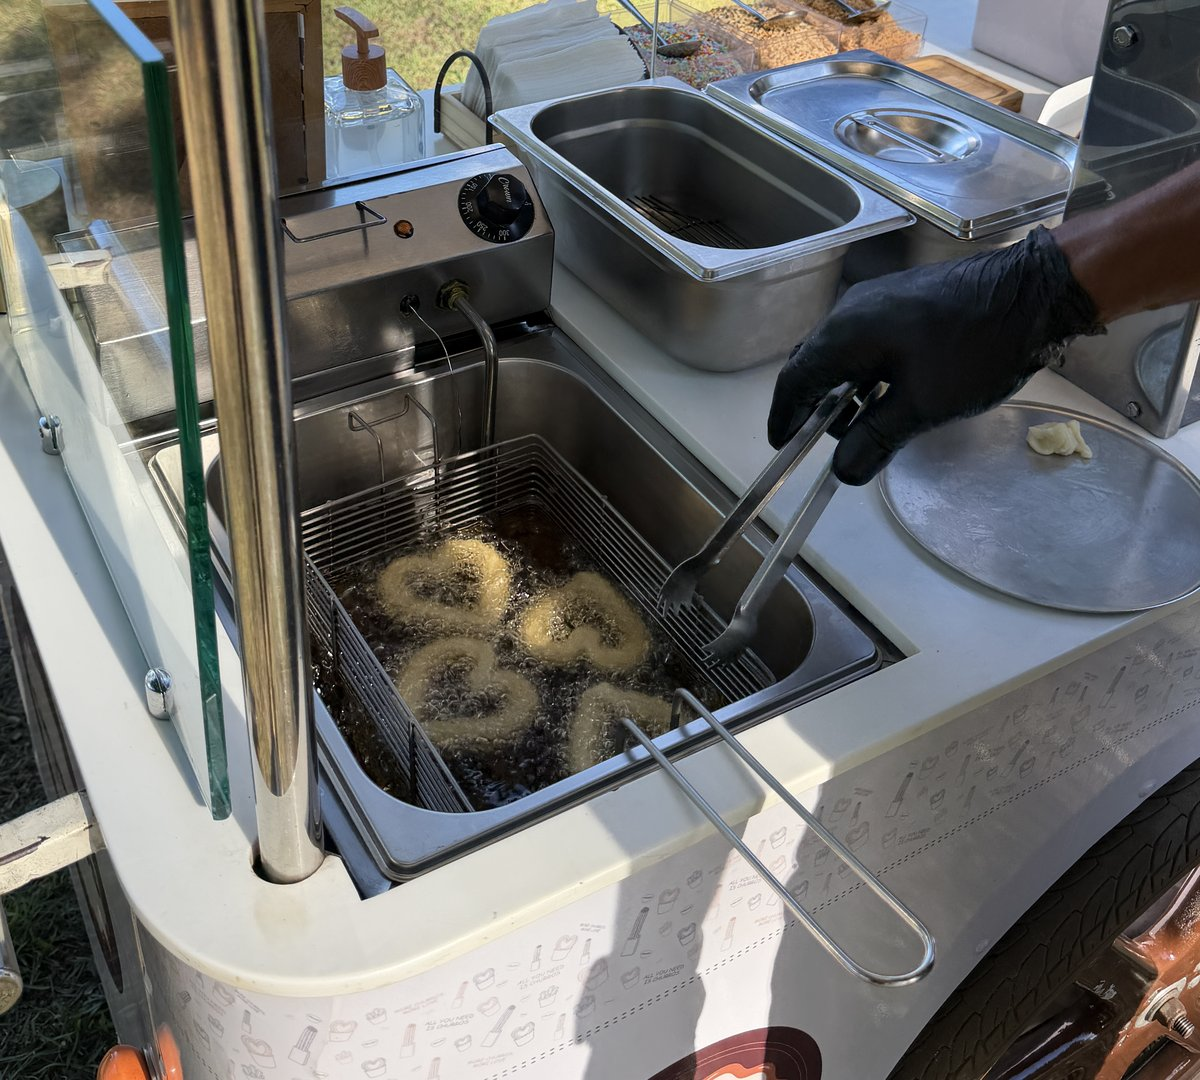
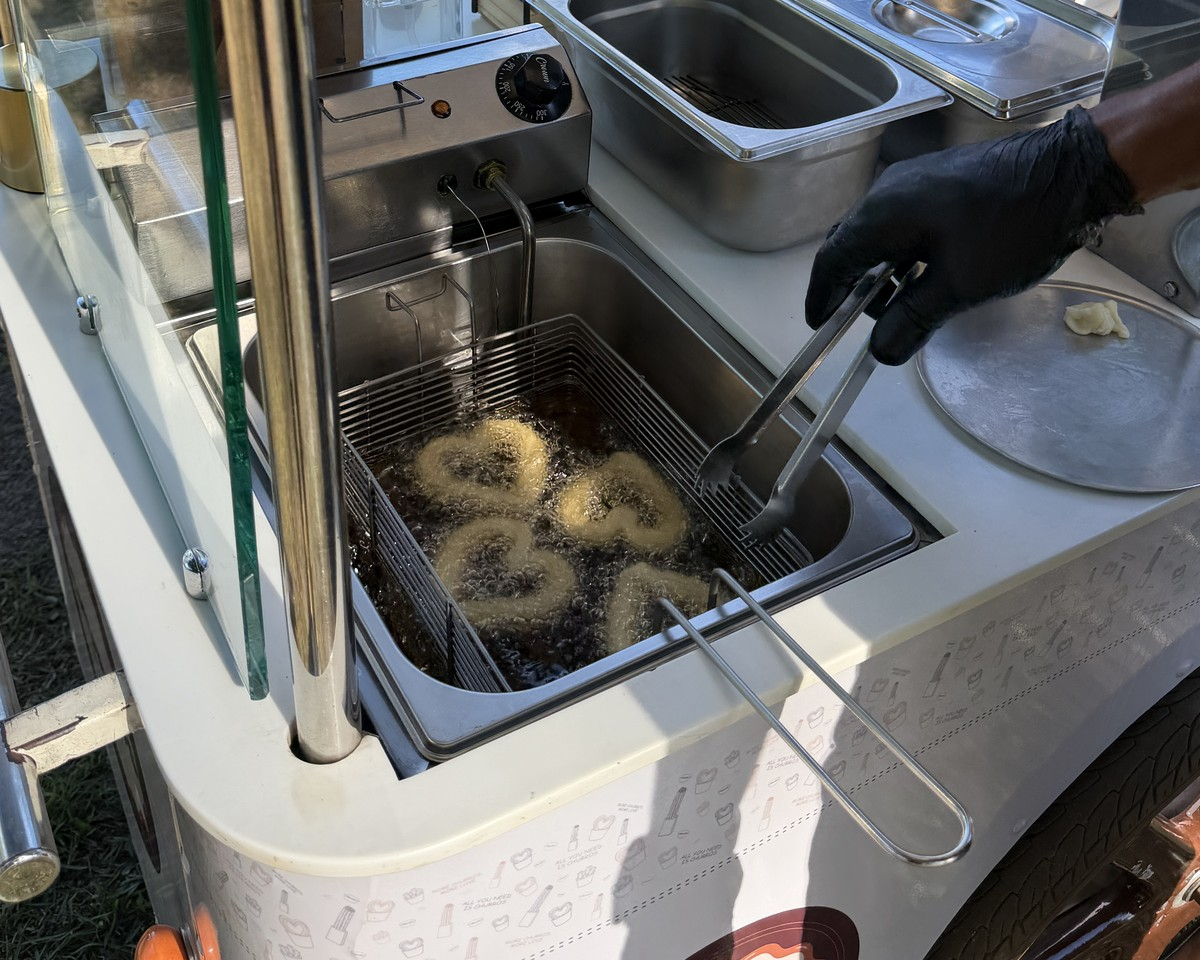
Ajusta recorte 5:4 e enquadramento das 3 fotos nos cards de O que nos torna unicos

diff --git a/index.html b/index.html
@@ -215,12 +215,12 @@
     .intent-plus { display: none; width: 2rem; height: 2rem; border-radius: 999px; background: rgba(35,26,18,.1);
                    place-items: center; color: #231A12; transition: transform .5s cubic-bezier(.22,.61,.36,1), background-color .4s ease; }
     @media (min-width: 640px) and (max-width: 1023px) { .intent-row { grid-template-columns: repeat(3, minmax(0, 1fr)); } }
-    .intent-card img { width: 100%; height: 14.5rem; object-fit: cover; border-radius: 20px; }
+    .intent-card img { width: 100%; aspect-ratio: 5 / 4; height: auto; object-fit: cover; border-radius: 20px; }
     @media (min-width: 1024px) {
       .intent-plus { display: grid; }
       .intent-card:hover { background: #FBA91E; box-shadow: 0 24px 48px -18px rgba(245,158,11,.4); }
       .intent-card:hover .intent-plus, .intent-card:focus-within .intent-plus { transform: rotate(45deg); background: #231A12; color: #FBF7F0; }
-      .intent-row { display: flex; gap: 1.15rem; height: 28.5rem; }
+      .intent-row { display: flex; gap: 1.15rem; height: 33.5rem; }
       .intent-card { flex: 1 1 0; min-width: 0; min-height: 0; padding: 1.6rem 1.6rem; gap: 0; justify-content: flex-start;
                      transition: flex-grow .85s cubic-bezier(.22,.61,.36,1), background-color .5s ease, box-shadow .5s ease; }
       .intent-row:hover .intent-card { flex-grow: .92; }
@@ -231,8 +231,8 @@
       .intent-title { margin-top: .75rem; width: 15.25rem; max-width: 100%; font-size: 1.28rem; line-height: 1.24; }
       .intent-card .intent-body { max-height: 0; opacity: 0; transform: translateY(12px); overflow: hidden;
                                   transition: max-height .75s cubic-bezier(.22,.61,.36,1), opacity .45s .12s ease, transform .75s .12s cubic-bezier(.22,.61,.36,1); }
-      .intent-card:hover .intent-body, .intent-card:focus-within .intent-body { max-height: 20rem; opacity: 1; transform: none; }
-      .intent-card img { height: 16.5rem; transform: scale(1.04); transition: transform .85s cubic-bezier(.22,.61,.36,1); }
+      .intent-card:hover .intent-body, .intent-card:focus-within .intent-body { max-height: 24rem; opacity: 1; transform: none; }
+      .intent-card img { aspect-ratio: auto; height: 21.5rem; transform: scale(1.03); transition: transform .85s cubic-bezier(.22,.61,.36,1); }
       .intent-card:hover img, .intent-card:focus-within img { transform: scale(1); }
     }
     @media (min-width: 1200px) {
@@ -686,9 +686,9 @@
       { text: 'Massa fresca e totalmente artesanal, produzida todos os dias',
         img: 'assets/galeria/img_9964.jpg', pos: '50% 50%' },
       { text: 'Fritos na hora garantindo leveza e crocância',
-        img: 'assets/galeria/img_0868.jpg', pos: '50% 50%' },
+        img: 'assets/galeria/img_0868.jpg', pos: '50% 55%' },
       { text: 'Personalizamos nosso carrinho de acordo com a identidade visual do seu evento',
-        img: 'assets/galeria/img_9168.jpg', pos: '50% 45%' },
+        img: 'assets/galeria/img_9168.jpg', pos: '50% 55%' },
     ],
     /* STORIES: vídeos com som exibidos no botão flutuante (ordem = ordem de exibição) */
     stories: [
